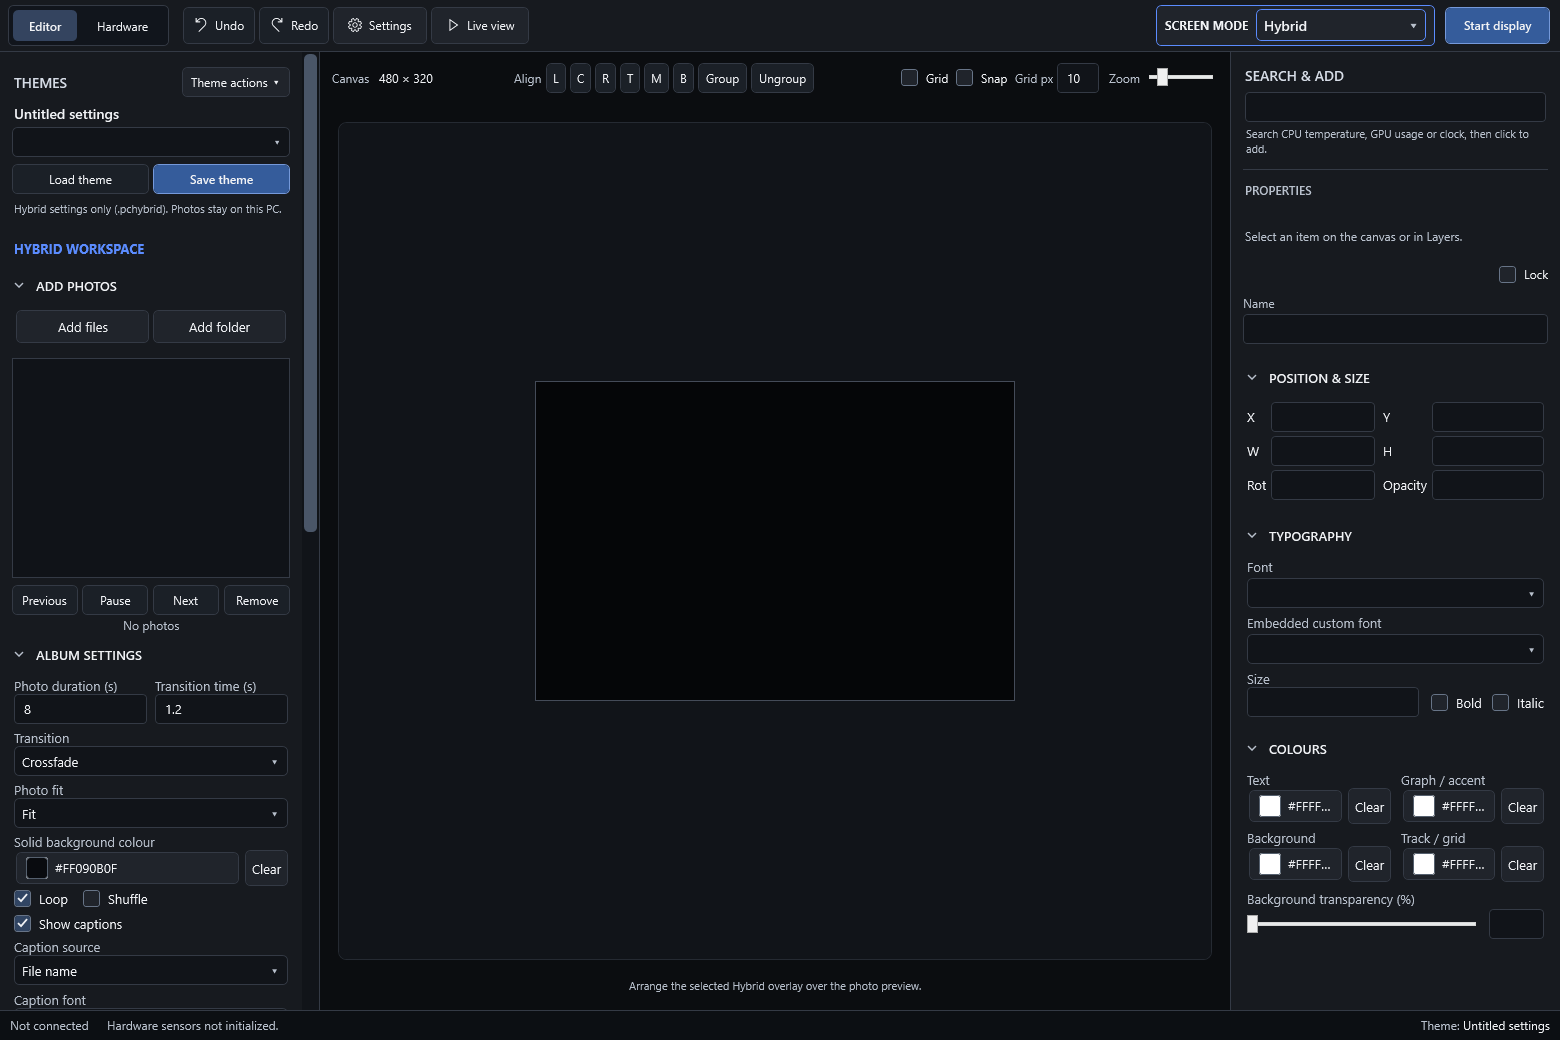
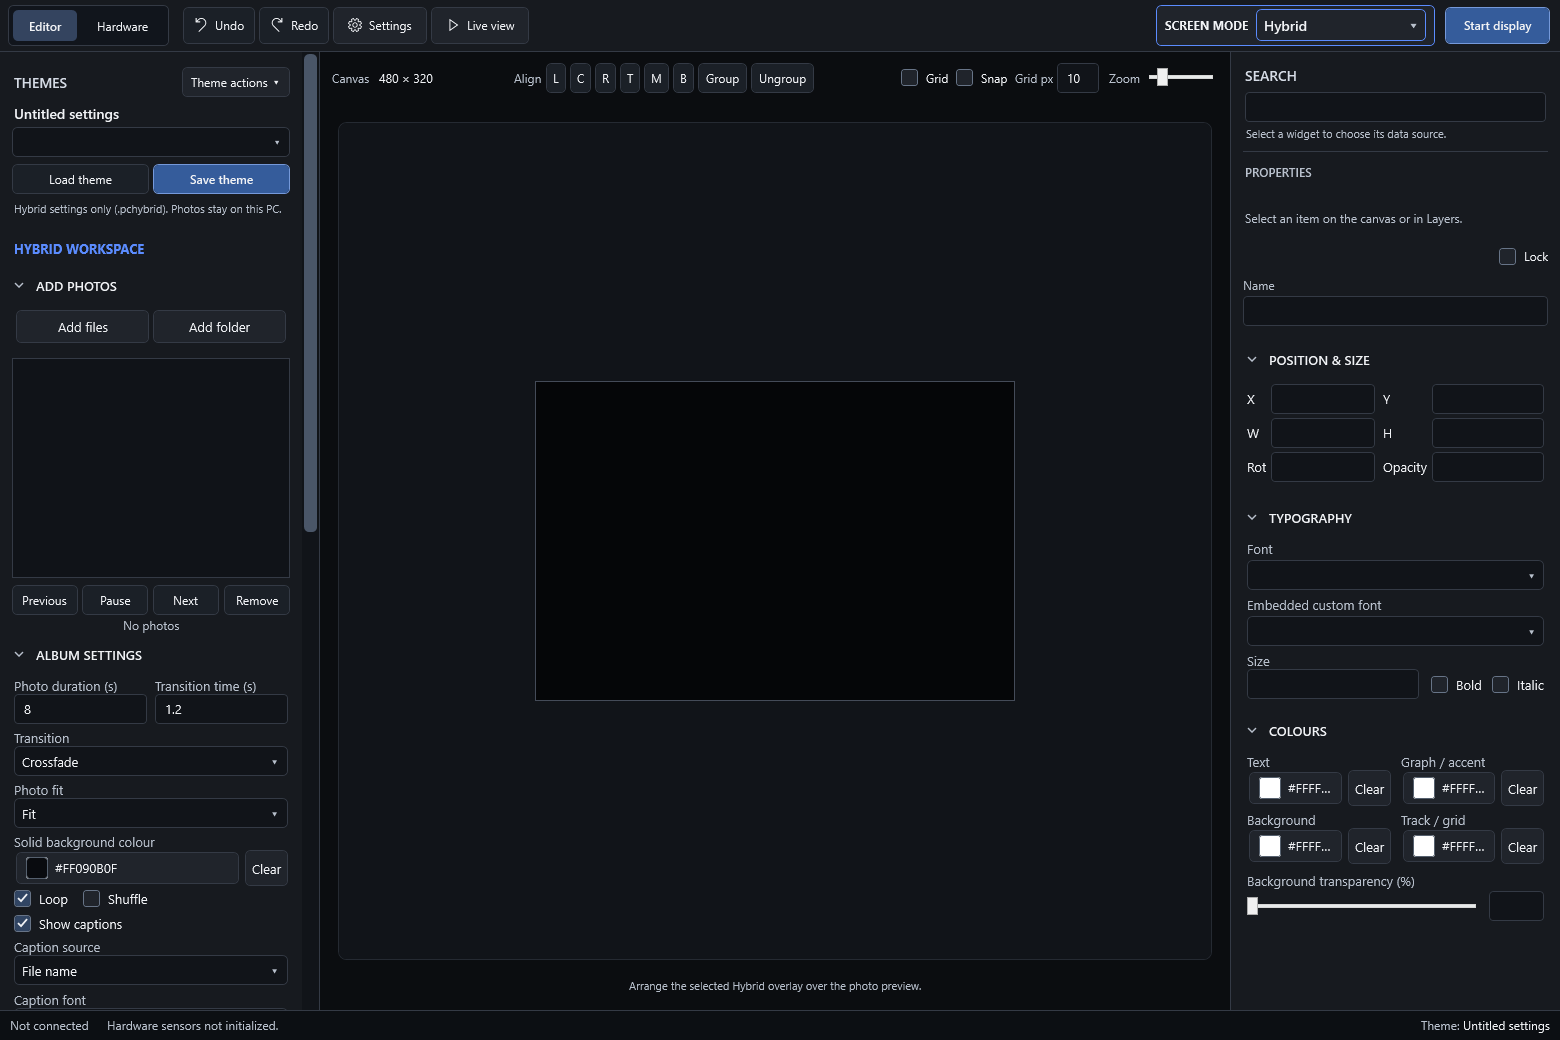
Release v0.10.0-alpha.5: search configures the selected widget's source

diff --git a/README.md b/README.md
@@ -2,7 +2,7 @@
 
 A visual Windows editor and runtime for 3.5-inch Turing/TURZX-style USB PC info screens. Create a sensor dashboard, use the screen as a photo frame, or combine photos with information overlays.
 
-> **Status:** `0.10.0-alpha.5` source. Actively developed alpha. The previous alpha has a permanent Windows x64 [portable download](https://github.com/ManethonSega/PC-Info-Screen-Studio/releases/tag/v0.10.0-alpha.4) is available. Development builds are also available through GitHub Actions. There is no installer, code signing or automatic updater.
+> **Status:** `0.10.0-alpha.5`. Actively developed alpha. A permanent Windows x64 [portable download](https://github.com/ManethonSega/PC-Info-Screen-Studio/releases/tag/v0.10.0-alpha.5) is available. Development builds are also available through GitHub Actions. There is no installer, code signing or automatic updater.
 
 The priorities are an intuitive interface, lightweight operation, and a clear preview of the physical screen.
 
@@ -72,11 +72,11 @@ Photo Frame (`.pcphoto`) and Hybrid (`.pchybrid`) themes save settings in their 
 
 ## Download and run
 
-1. Download [PCInfoScreenStudio-0.10.0-alpha.4-win-x64.zip](https://github.com/ManethonSega/PC-Info-Screen-Studio/releases/download/v0.10.0-alpha.4/PCInfoScreenStudio-0.10.0-alpha.4-win-x64.zip) from the [portable alpha release](https://github.com/ManethonSega/PC-Info-Screen-Studio/releases/tag/v0.10.0-alpha.4).
+1. Download [PCInfoScreenStudio-0.10.0-alpha.5-win-x64.zip](https://github.com/ManethonSega/PC-Info-Screen-Studio/releases/download/v0.10.0-alpha.5/PCInfoScreenStudio-0.10.0-alpha.5-win-x64.zip) from the [portable alpha release](https://github.com/ManethonSega/PC-Info-Screen-Studio/releases/tag/v0.10.0-alpha.5).
 2. Extract the **entire folder** to a permanent location, then run `PCInfoScreenStudio.exe`. Keep all extracted files together.
 3. Read `START-HERE.txt` for connection, startup and tray instructions. The build is self-contained; no separate .NET runtime installation is required.
 
-The release includes [SHA256SUMS.txt](https://github.com/ManethonSega/PC-Info-Screen-Studio/releases/download/v0.10.0-alpha.4/SHA256SUMS.txt), matching source archives and `build-info.json` with the exact source commit. This is an **unsigned alpha**, with [documented device limits](docs/COMPATIBILITY.md) and [validation results and remaining checks](docs/VALIDATION.md).
+The release includes [SHA256SUMS.txt](https://github.com/ManethonSega/PC-Info-Screen-Studio/releases/download/v0.10.0-alpha.5/SHA256SUMS.txt), matching source archives and `build-info.json` with the exact source commit. This is an **unsigned alpha**, with [documented device limits](docs/COMPATIBILITY.md) and [validation results and remaining checks](docs/VALIDATION.md).
 
 For newer development builds, open the [Windows build workflow](https://github.com/ManethonSega/PC-Info-Screen-Studio/actions/workflows/build.yml), select the latest successful `main` run, then download `PCInfoScreenStudio-win-x64` under **Artifacts**. GitHub may require sign-in. These artifacts expire after **3 days**; the release download above is permanent.
 

diff --git a/docs/releases/0.10.0-alpha.5.md b/docs/releases/0.10.0-alpha.5.md
@@ -1,0 +1,24 @@
+# PC Info Screen Studio 0.10.0-alpha.5, portable alpha
+
+Search now configures the selected widget, following the same left-to-right workflow as the editor.
+
+## Changed
+
+- Add a widget using the existing buttons on the left, then select its data source on the right.
+- **SEARCH** filters the **Source** dropdown. `GPU` shows all standard GPU sources; `CPU temperature` finds `CPU.Temperature`. Enabled advanced sensor entries are included.
+- Searching never adds widgets and never changes the current sensor. Choose a source to update only the selected widget.
+- **Clear** restores the full source list. Empty results and switching widgets preserve and display each widget's actual source.
+- Info Screen and Hybrid use the same configuration workflow. Source choices remain saved in their themes.
+- README instructions and interface screenshots match the new workflow.
+
+## Download
+
+Extract the entire **PCInfoScreenStudio-0.10.0-alpha.5-win-x64.zip** folder, then run `PCInfoScreenStudio.exe`. The package is self-contained and includes `START-HERE.txt`, device compatibility notes, licences and exact source/build metadata. `SHA256SUMS.txt` verifies the ZIP. The source archives at this tag match its `build-info.json` revision.
+
+## Validation and limits
+
+Windows checks exercise the actual search box and Source dropdown, GPU and multiword filtering, choosing a sensor, empty results, clearing, dynamic advanced sensors, switching widgets, Hybrid editing and saving/reopening its selected source. Existing mode, session, tray and reconnect checks run as well. The published application and extracted portable ZIP start in smoke-test mode.
+
+This remains an **unsigned alpha**, focused on 480 × 320 Revision-A USB serial screens. Physical-screen testing, a real Windows restart and new-user testing remain pending. Video import is a placeholder; full video playback is unavailable. Photos and some Hybrid assets remain linked to their local PC paths. See the included `VALIDATION.md` and `DEVICE-COMPATIBILITY.md`.
+
+GPL-3.0-or-later; third-party licences remain in the package.

diff --git a/docs/VALIDATION.md b/docs/VALIDATION.md
@@ -2,12 +2,13 @@
 
 This document describes what the release workflow verifies and what still needs a person using a physical screen. The exact successful workflow and source SHA are recorded in the portable package's `build-info.json`.
 
-Candidate validation passed on **5 October 2026** in [Windows run 37362118377](https://github.com/ManethonSega/PC-Info-Screen-Studio/actions/runs/37362118377), including the extracted portable ZIP. The release workflow repeats these checks for its tagged source.
+Candidate validation passed on **5 October 2026** in [Windows run 37367471392](https://github.com/ManethonSega/PC-Info-Screen-Studio/actions/runs/37367471392), including the extracted portable ZIP. The release workflow repeats these checks for its tagged source.
 
 ## Automated Windows checks
 
 | Workflow | Evidence provided by the checks |
 | --- | --- |
+| Configure a selected widget | The actual search box filters the Source dropdown. GPU and multiword queries, empty results, Clear, advanced sensors and switching widgets preserve the current sensor until an explicit choice; Hybrid saves/reopens that choice. Search never adds widgets. |
 | Add, edit and save Info Screen | Direct Add command creates a widget; the application save path writes it into the reopened `.t3theme`. |
 | Save Photo Frame | The app saves global caption settings and retains the linked playlist. `.pcphoto` files exclude photos. |
 | Add and save Hybrid | The app saves an added shape and its exact position into `.pchybrid`. |

diff --git a/docs/ROADMAP.md b/docs/ROADMAP.md
@@ -88,7 +88,7 @@ Validation should be focused on these user workflows and physical-device behavio
 
 ### 4. Make distribution dependable
 
-- [x] Publish 0.10.0-alpha.4 as a versioned GitHub Release with a permanent portable download and matching source.
+- [x] Publish 0.10.0-alpha.5 as a versioned GitHub Release with a permanent portable download and matching source.
 - [x] Compatibility and validation records distinguish automated checks from physical-device evidence.
 - [x] Refresh the UI screenshots from the actual Windows WPF controls before publication.
 - [ ] Decide on an installer and file associations after the portable workflow is stable.
